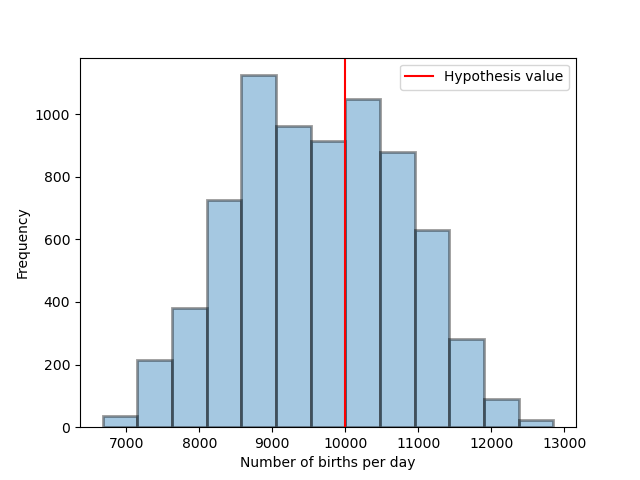
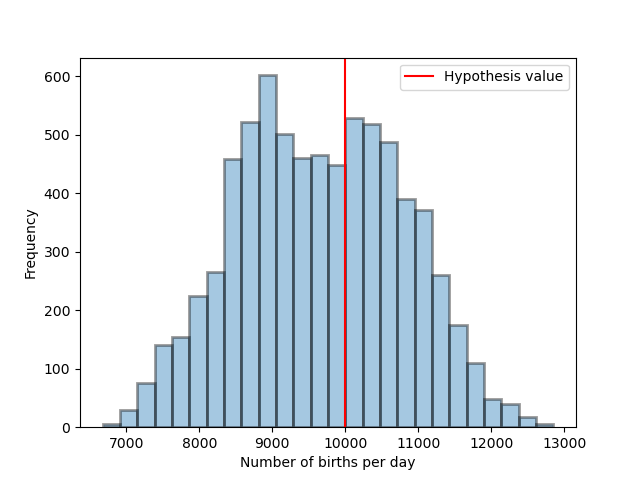
changed number of bins in task 1 part 4 histogram

diff --git a/Task1/4/main_1_4.py b/Task1/4/main_1_4.py
@@ -6,7 +6,7 @@ import matplotlib.pyplot as plt
 
 
 def getBucket(row):
-    return math.floor(row.births / 500) * 500
+    return math.floor(row.births / 250) * 250
 
 
 BIRTHS_HYPOTHESIS = 10000
